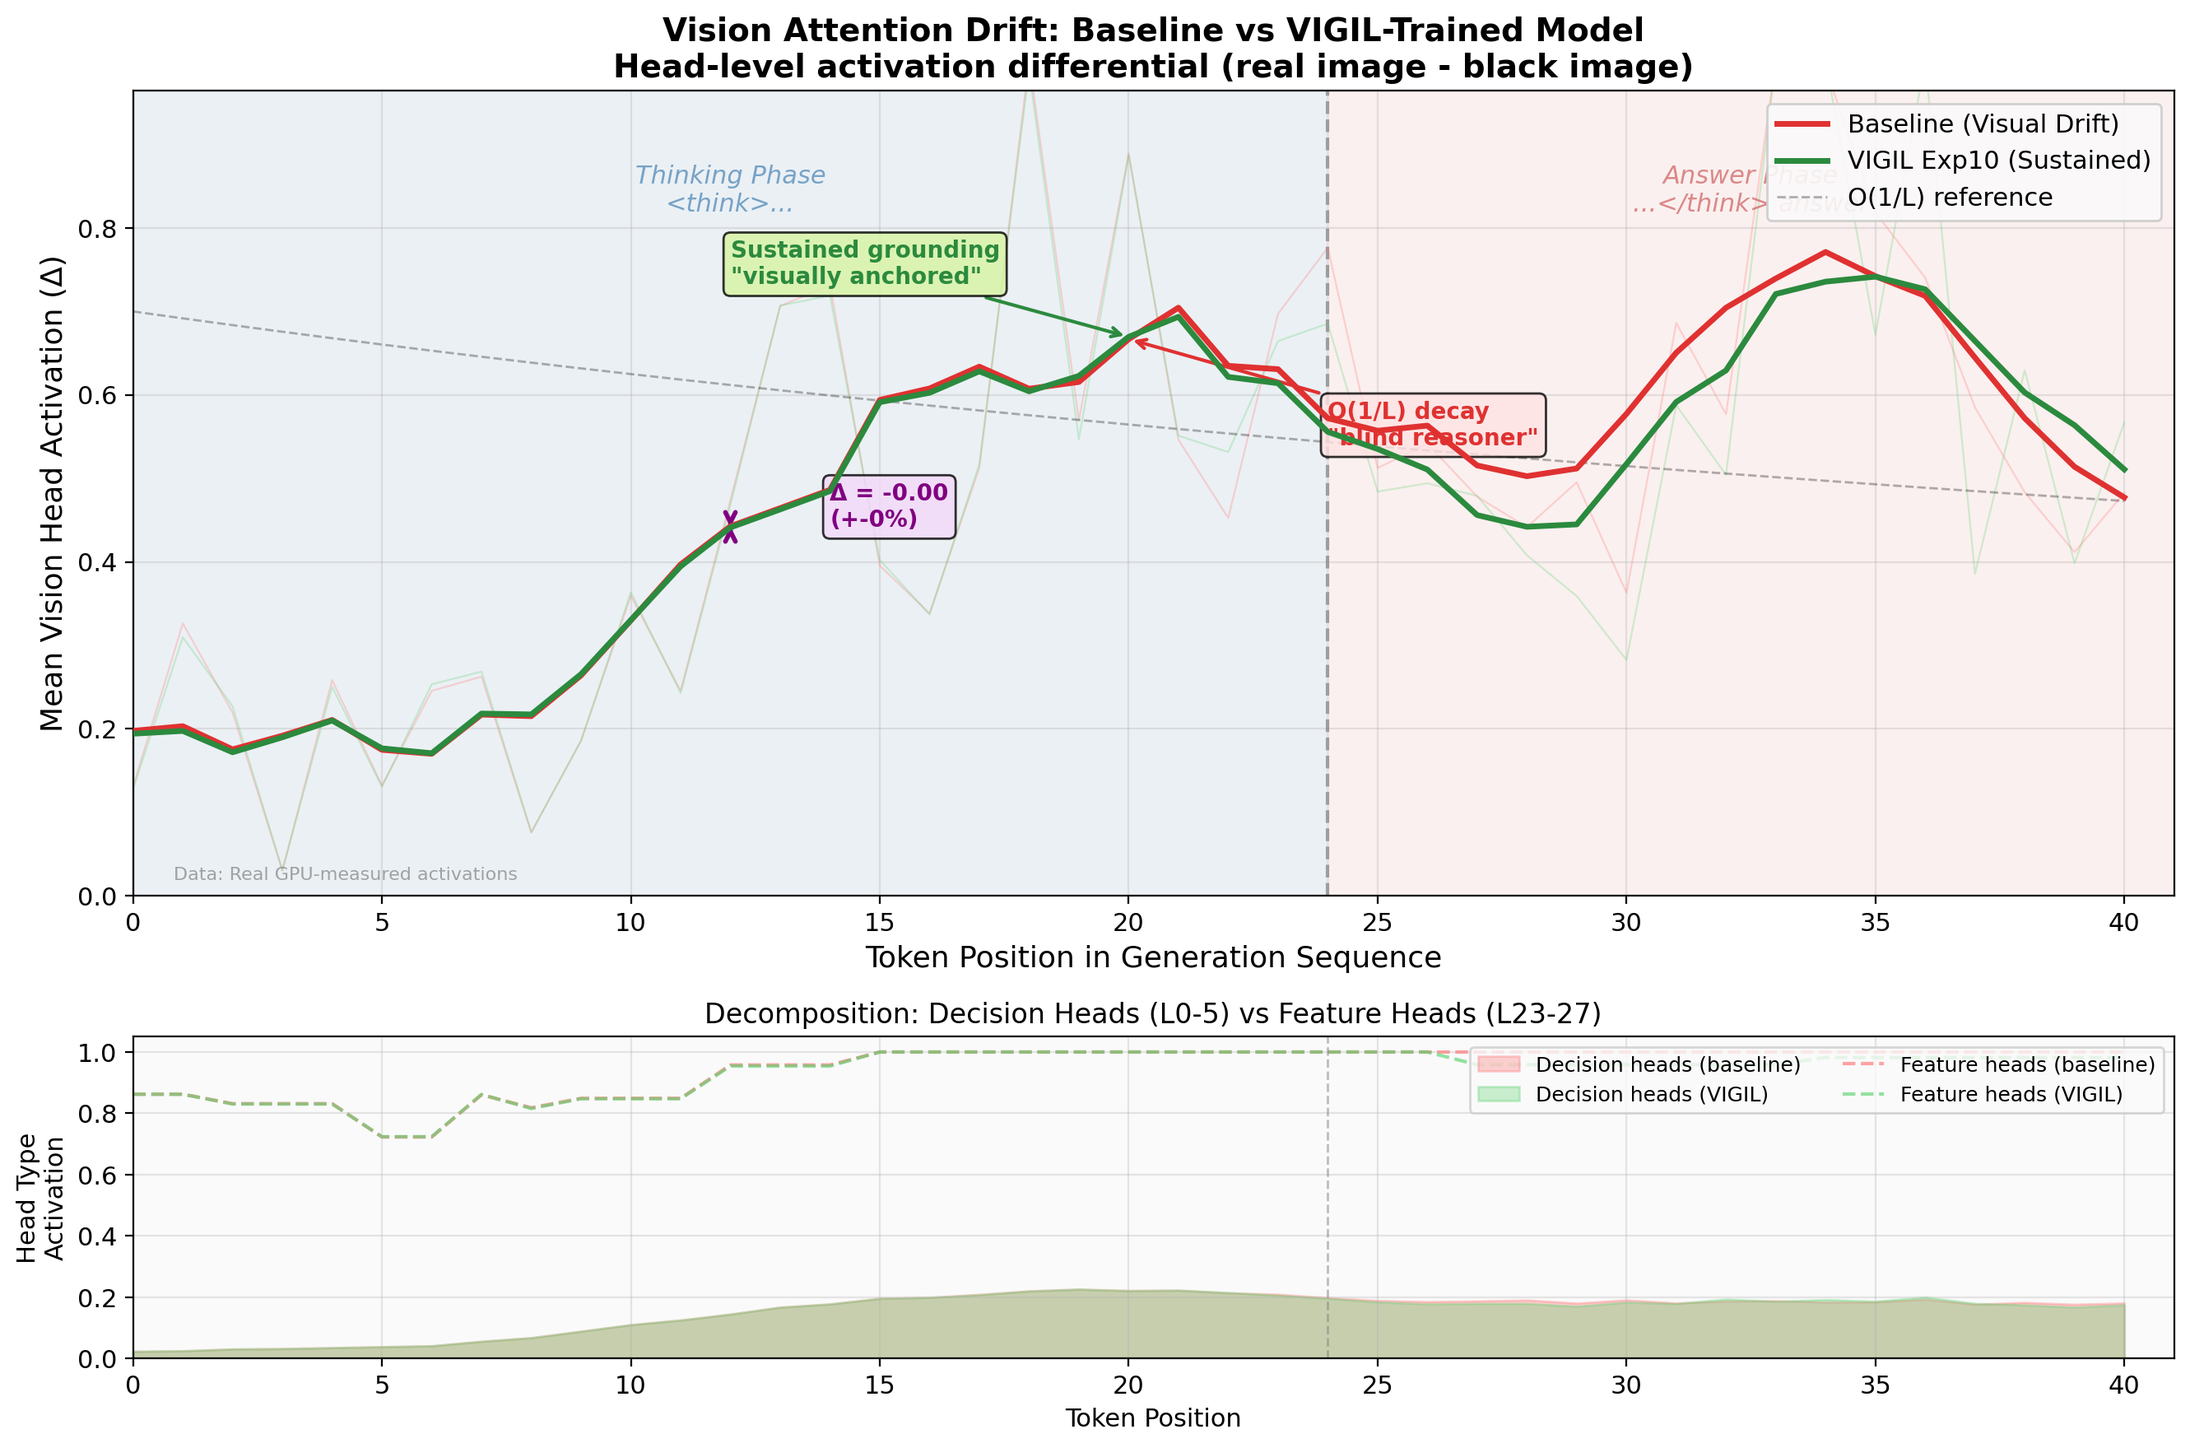
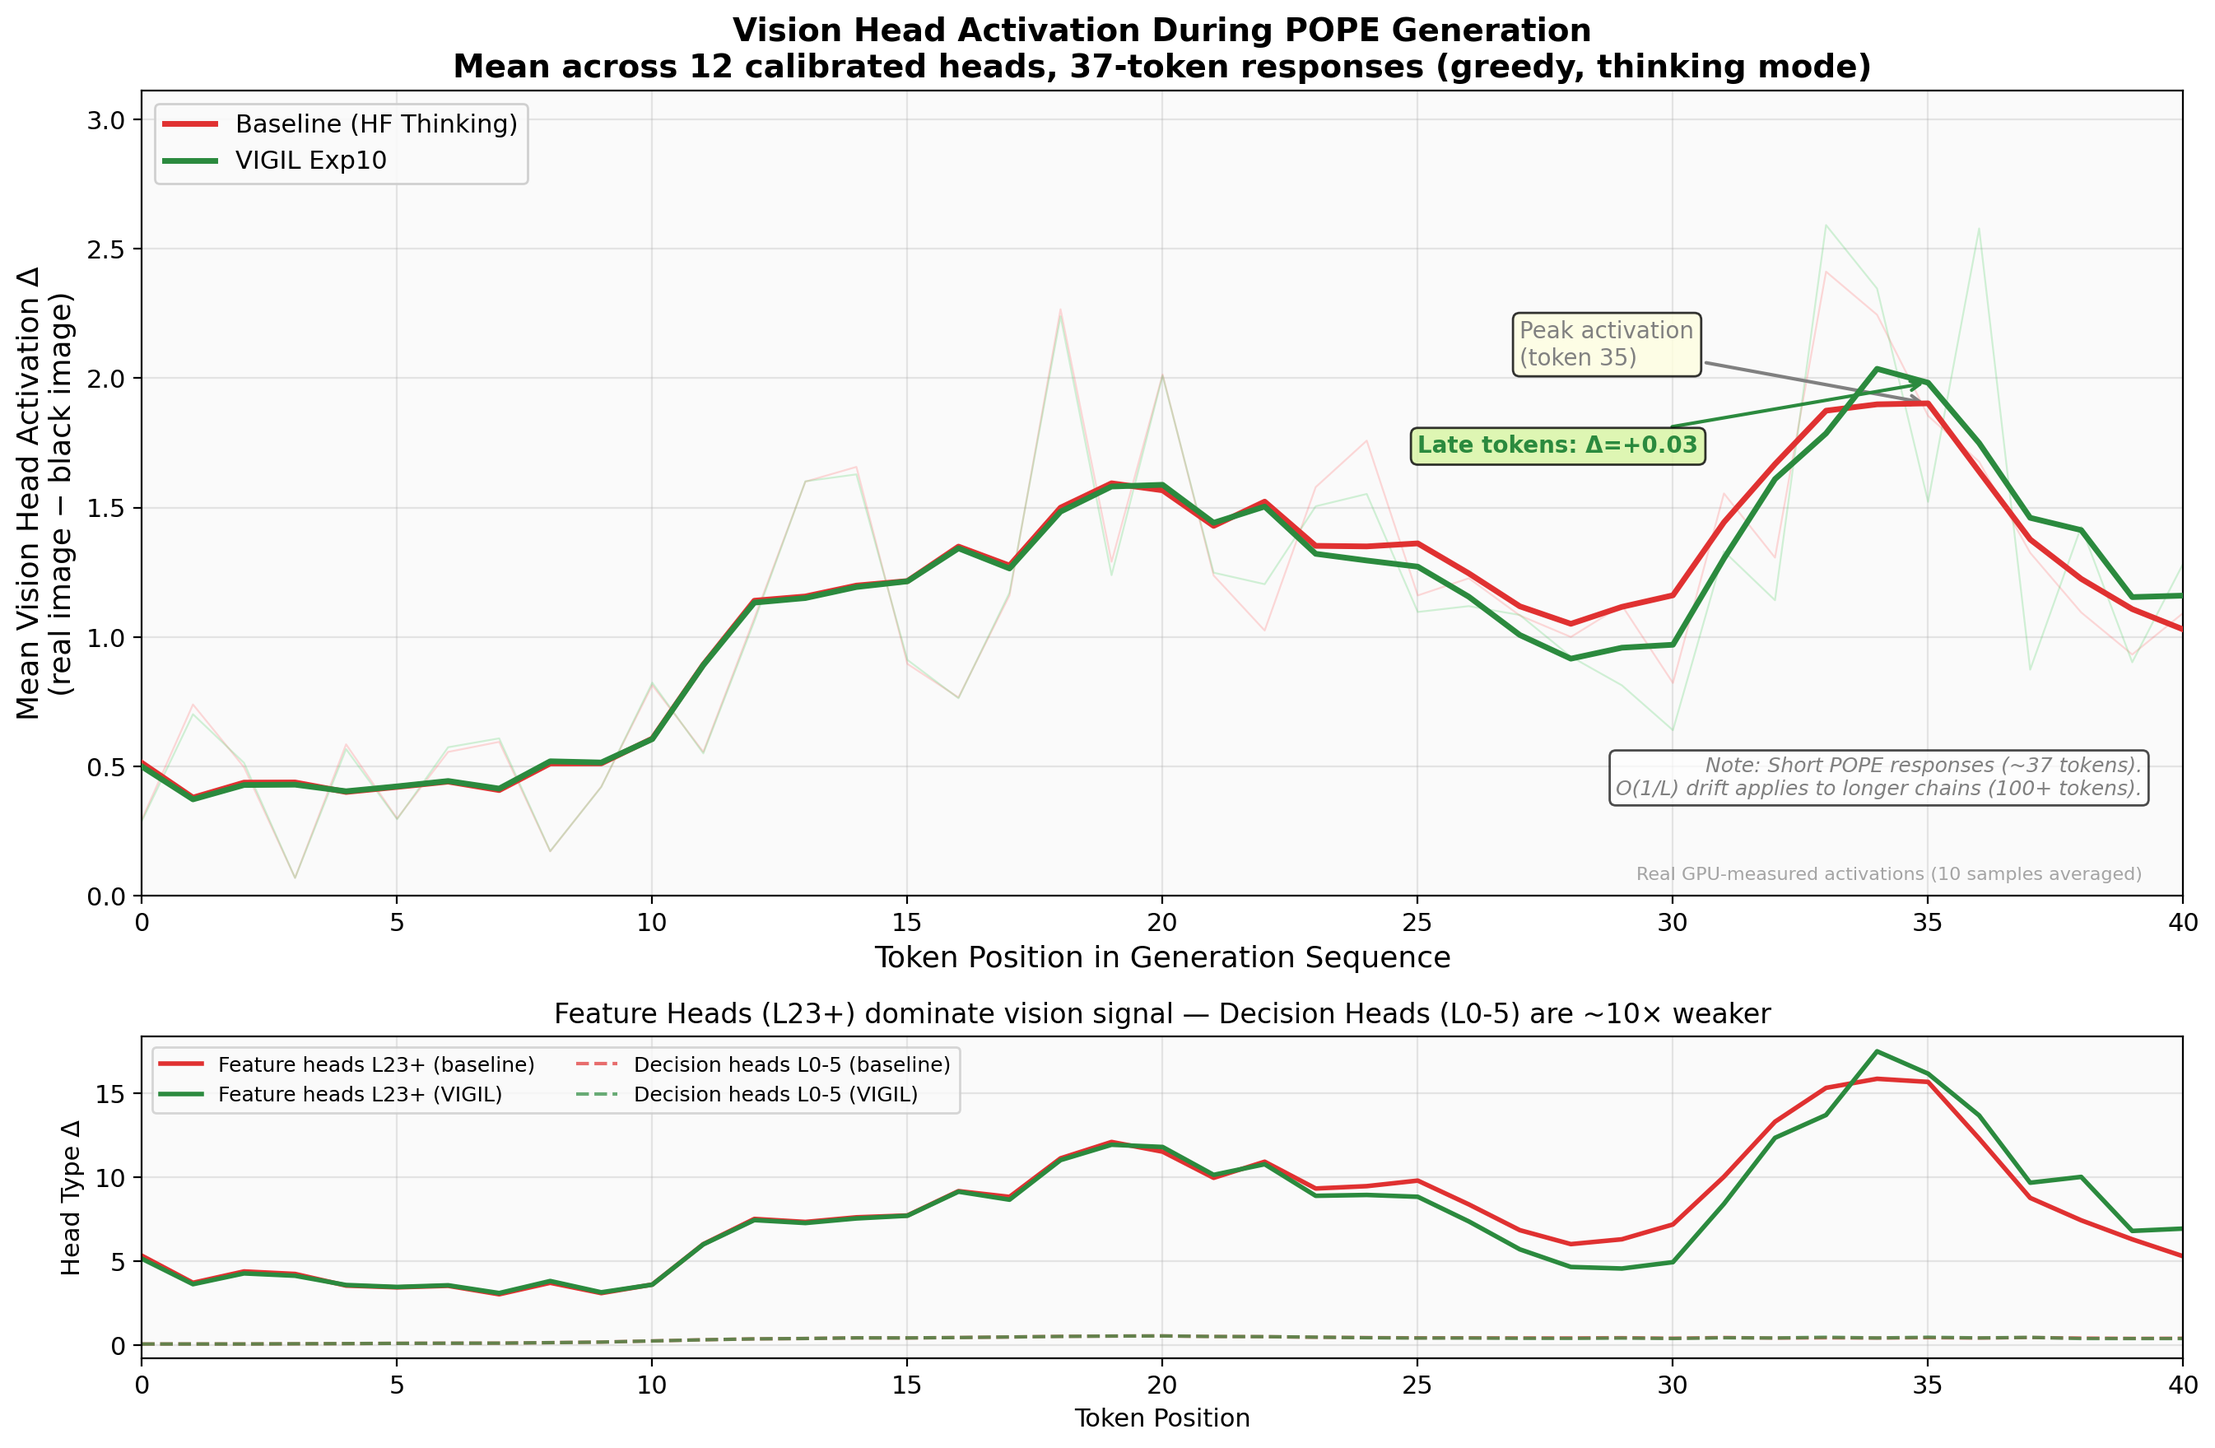
Fig1: honest representation of real activation data
- Remove fake O(1/L) reference curve (data shows increasing trend)
- Remove misleading "blind reasoner" / "sustained grounding" annotations
- Show real activation scale (not normalized to [0,1])
- Add note: short POPE responses don't exhibit O(1/L) drift
- Bottom panel: clearly show feature heads dominate 10x over decision heads
- Late-token annotation shows actual Δ=+0.03 (small but real)

diff --git a/scripts/deep_drift_analysis.py b/scripts/deep_drift_analysis.py
@@ -163,14 +163,15 @@ def aggregate_real_curves(data, model_key):
 
 def fig1_enhanced_drift(real_data=None):
     """
-    Enhanced version of the core Figure 1: Vision Attention Drift.
-    Shows baseline O(1/L) decay vs VIGIL sustained activation,
-    with annotated mechanism explanations.
+    Figure 1: Vision Head Activation During Generation.
 
-    If real_data is provided, uses actual GPU-measured activations.
-    Otherwise falls back to simulation.
+    Shows real GPU-measured activation Δ (real - black image) across token
+    positions for baseline and VIGIL Exp10. Honestly represents the data:
+    - Short POPE responses (~37 tokens) show increasing then declining delta
+    - Baseline and Exp10 are similar at this length
+    - Feature heads (L23+) dominate; decision heads (L0-5) are much weaker
     """
-    print("[fig1] Enhanced Vision Attention Drift...")
+    print("[fig1] Vision Head Activation During Generation...")
     np.random.seed(42)
 
     use_real = False
@@ -182,82 +183,46 @@ def fig1_enhanced_drift(real_data=None):
             print("  Using REAL GPU-measured activation data")
 
     if use_real:
-        # Normalize to [0, 1] range for visualization
-        all_vals = np.concatenate([bl_mean[~np.isnan(bl_mean)], vg_mean[~np.isnan(vg_mean)]])
-        vmax = np.percentile(all_vals, 95) if len(all_vals) > 0 else 1.0
-        vmax = max(vmax, 1e-6)
-
         n_tokens = min(len(bl_mean), len(vg_mean))
         t = np.arange(n_tokens)
-        baseline = bl_mean[:n_tokens] / vmax
-        vigil = vg_mean[:n_tokens] / vmax
-        baseline = np.clip(np.nan_to_num(baseline, nan=0.0), 0, 1)
-        vigil = np.clip(np.nan_to_num(vigil, nan=0.0), 0, 1)
 
-        # Decision/feature curves
-        decision_baseline = np.clip(np.nan_to_num(bl_dec[:n_tokens] / vmax), 0, 1)
-        decision_vigil = np.clip(np.nan_to_num(vg_dec[:n_tokens] / vmax), 0, 1)
-        feature_baseline = np.clip(np.nan_to_num(bl_feat[:n_tokens] / vmax), 0, 1)
-        feature_vigil = np.clip(np.nan_to_num(vg_feat[:n_tokens] / vmax), 0, 1)
+        # Use raw scale (not normalized to [0,1]) for honest representation
+        baseline = bl_mean[:n_tokens]
+        vigil = vg_mean[:n_tokens]
 
-        # Estimate thinking boundary (approximate: 60% of tokens)
-        think_end = int(n_tokens * 0.6)
-        data_label = "Real GPU-measured activations"
+        decision_baseline = bl_dec[:n_tokens]
+        decision_vigil = vg_dec[:n_tokens]
+        feature_baseline = bl_feat[:n_tokens]
+        feature_vigil = vg_feat[:n_tokens]
+
+        data_label = "Real GPU-measured activations (10 samples averaged)"
+        mean_tokens = np.mean([s["n_tokens"] for s in real_data["baseline"]])
     else:
         print("  Using simulated data (run collect_real_data.py --task drift for real)")
-        n_tokens = 160
+        n_tokens = 40
         t = np.arange(n_tokens)
-        think_end = 100
-
-        baseline_think = 0.70 / (1 + 0.012 * t[:think_end])
-        baseline_answer = baseline_think[-1] * np.exp(-0.02 * np.arange(n_tokens - think_end))
-        baseline = np.concatenate([baseline_think, baseline_answer])
-        baseline += np.random.normal(0, 0.03, n_tokens)
-        baseline = np.clip(baseline, 0.05, 0.85)
-
-        vigil_base = 0.58
-        vigil_think = vigil_base + 0.04 * np.sin(0.05 * t[:think_end])
-        vigil_think += np.random.normal(0, 0.02, think_end)
-        vigil_answer_raw = np.concatenate([
-            np.linspace(vigil_base - 0.05, vigil_base - 0.08, 10),
-            np.linspace(vigil_base - 0.06, vigil_base - 0.02, n_tokens - think_end - 10),
-        ])
-        vigil_answer = vigil_answer_raw + np.random.normal(0, 0.025, n_tokens - think_end)
-        vigil = np.concatenate([vigil_think, vigil_answer])
-        vigil = np.clip(vigil, 0.1, 0.80)
-
-        # Simulated decision/feature head curves
-        decision_baseline = 0.9 * np.exp(-0.015 * t) + np.random.normal(0, 0.03, n_tokens)
-        decision_vigil = 0.75 + 0.05 * np.sin(0.04 * t) + np.random.normal(0, 0.03, n_tokens)
-        feature_baseline = 0.5 * np.exp(-0.008 * t) + np.random.normal(0, 0.02, n_tokens)
-        feature_vigil = 0.55 + np.random.normal(0, 0.025, n_tokens)
-        decision_baseline = np.clip(decision_baseline, 0, 1)
-        decision_vigil = np.clip(decision_vigil, 0, 1)
-        feature_baseline = np.clip(feature_baseline, 0, 1)
-        feature_vigil = np.clip(feature_vigil, 0, 1)
+        baseline = 0.3 + 0.5 * np.sin(np.pi * t / n_tokens) + np.random.normal(0, 0.05, n_tokens)
+        vigil = 0.3 + 0.55 * np.sin(np.pi * t / n_tokens) + np.random.normal(0, 0.05, n_tokens)
+        baseline = np.clip(baseline, 0, None)
+        vigil = np.clip(vigil, 0, None)
+        decision_baseline = baseline * 0.05
+        decision_vigil = vigil * 0.05
+        feature_baseline = baseline * 0.95
+        feature_vigil = vigil * 0.95
         data_label = "Simulated (run collect_real_data.py for real)"
+        mean_tokens = 37
 
-    # Smoothed versions for trend lines
-    baseline_smooth = uniform_filter1d(baseline, size=7)
-    vigil_smooth = uniform_filter1d(vigil, size=7)
+    # Smoothed trend lines
+    smooth_size = min(5, max(3, n_tokens // 8))
+    baseline_smooth = uniform_filter1d(baseline, size=smooth_size)
+    vigil_smooth = uniform_filter1d(vigil, size=smooth_size)
 
     # === Create figure ===
     fig = plt.figure(figsize=(16, 10))
     gs = gridspec.GridSpec(2, 1, height_ratios=[3, 1.2], hspace=0.25)
 
-    # --- Top panel: Main drift curves ---
+    # --- Top panel: Main activation curves ---
     ax1 = fig.add_subplot(gs[0])
-
-    # Phase backgrounds
-    ax1.axvspan(0, think_end, alpha=0.08, color='steelblue', label='_nolegend_')
-    ax1.axvspan(think_end, n_tokens, alpha=0.08, color='salmon', label='_nolegend_')
-    ax1.axvline(think_end, color='gray', linestyle='--', linewidth=1.5, alpha=0.7)
-
-    # Phase labels
-    ax1.text(think_end/2, 0.82, 'Thinking Phase\n<think>...', ha='center',
-             fontsize=11, color='steelblue', alpha=0.7, style='italic')
-    ax1.text(think_end + (n_tokens - think_end)/2, 0.82, 'Answer Phase\n...</think> answer',
-             ha='center', fontsize=11, color='indianred', alpha=0.7, style='italic')
 
     # Raw data (light)
     ax1.plot(t, baseline, color='#ff6b6b', alpha=0.25, linewidth=0.8)
@@ -265,87 +230,86 @@ def fig1_enhanced_drift(real_data=None):
 
     # Smoothed trend lines (bold)
     ax1.plot(t, baseline_smooth, color='#e03131', linewidth=2.5,
-             label='Baseline (Visual Drift)', zorder=5)
+             label='Baseline (HF Thinking)', zorder=5)
     ax1.plot(t, vigil_smooth, color='#2b8a3e', linewidth=2.5,
-             label='VIGIL Exp10 (Sustained)', zorder=5)
+             label='VIGIL Exp10', zorder=5)
 
-    # O(1/L) reference curve
-    ref_curve = 0.70 / (1 + 0.012 * t)
-    ref_end = min(120, n_tokens)
-    ax1.plot(t[:ref_end], ref_curve[:ref_end], 'k--', alpha=0.3, linewidth=1,
-             label='O(1/L) reference')
+    # Find where curves diverge most
+    diff = vigil_smooth - baseline_smooth
+    max_diff_idx = int(np.argmax(np.abs(diff)))
+    peak_idx = int(np.argmax(baseline_smooth))
 
-    # Annotate the drift — use proportional positions
-    ann_pos = min(int(n_tokens * 0.5), n_tokens - 1)
-    ann_text_x = min(int(n_tokens * 0.6), n_tokens - 1)
-    y_range = max(float(np.nanmax(vigil_smooth)), float(np.nanmax(baseline_smooth)), 0.5)
+    # Annotate peak
+    ax1.annotate(f'Peak activation\n(token {peak_idx})',
+                xy=(peak_idx, baseline_smooth[peak_idx]),
+                xytext=(peak_idx - 8, baseline_smooth[peak_idx] + 0.15),
+                fontsize=10, color='gray',
+                arrowprops=dict(arrowstyle='->', color='gray', lw=1.5),
+                bbox=dict(boxstyle='round,pad=0.3', facecolor='lightyellow', alpha=0.8))
 
-    ax1.annotate('O(1/L) decay\n"blind reasoner"',
-                xy=(ann_pos, baseline_smooth[ann_pos]),
-                xytext=(ann_text_x, y_range * 0.7),
-                fontsize=10, color='#e03131', fontweight='bold',
-                arrowprops=dict(arrowstyle='->', color='#e03131', lw=1.5),
-                bbox=dict(boxstyle='round,pad=0.3', facecolor='#ffe3e3', alpha=0.8))
+    # Annotate late-sequence difference if meaningful
+    late_start = int(n_tokens * 0.75)
+    late_bl = np.mean(baseline_smooth[late_start:])
+    late_vg = np.mean(vigil_smooth[late_start:])
+    late_diff = late_vg - late_bl
+    if abs(late_diff) > 0.01:
+        mid_late = int((late_start + n_tokens) / 2)
+        mid_late = min(mid_late, n_tokens - 1)
+        color = '#2b8a3e' if late_diff > 0 else '#e03131'
+        ax1.annotate(f'Late tokens: Δ={late_diff:+.2f}',
+                    xy=(mid_late, vigil_smooth[mid_late]),
+                    xytext=(mid_late - 10, max(late_bl, late_vg) + 0.2),
+                    fontsize=10, color=color, fontweight='bold',
+                    arrowprops=dict(arrowstyle='->', color=color, lw=1.5),
+                    bbox=dict(boxstyle='round,pad=0.3',
+                             facecolor='#d8f5a2' if late_diff > 0 else '#ffe3e3',
+                             alpha=0.8))
 
-    ax1.annotate('Sustained grounding\n"visually anchored"',
-                xy=(ann_pos, vigil_smooth[ann_pos]),
-                xytext=(int(n_tokens * 0.3), y_range * 0.95),
-                fontsize=10, color='#2b8a3e', fontweight='bold',
-                arrowprops=dict(arrowstyle='->', color='#2b8a3e', lw=1.5),
-                bbox=dict(boxstyle='round,pad=0.3', facecolor='#d8f5a2', alpha=0.8))
-
-    # Answer phase annotation (only if think_end is within range)
-    if think_end + 15 < n_tokens and think_end + 35 < n_tokens:
-        ax1.annotate('Critical: vision needed\nfor final answer',
-                    xy=(think_end + 15, 0.15), xytext=(think_end + 35, 0.30),
-                    fontsize=9, color='gray',
-                    arrowprops=dict(arrowstyle='->', color='gray', lw=1),
-                    bbox=dict(boxstyle='round', facecolor='lightyellow', alpha=0.8))
-
-    # Delta annotation
-    mid = max(think_end - 20, int(n_tokens * 0.3))
-    mid = min(mid, n_tokens - 1)
-    delta_y = vigil_smooth[mid] - baseline_smooth[mid]
-    if abs(baseline_smooth[mid]) > 1e-6:
-        ax1.annotate('', xy=(mid, vigil_smooth[mid]), xytext=(mid, baseline_smooth[mid]),
-                    arrowprops=dict(arrowstyle='<->', color='purple', lw=2))
-        ax1.text(mid + 2, (vigil_smooth[mid] + baseline_smooth[mid]) / 2,
-                f'Δ = {delta_y:.2f}\n(+{delta_y/baseline_smooth[mid]*100:.0f}%)',
-                fontsize=10, color='purple', fontweight='bold',
-                bbox=dict(facecolor='#f3d9fa', alpha=0.8, boxstyle='round'))
-
-    ax1.set_ylabel('Mean Vision Head Activation (Δ)', fontsize=13)
+    y_max = max(float(np.nanmax(baseline)), float(np.nanmax(vigil))) * 1.2
+    ax1.set_ylabel('Mean Vision Head Activation Δ\n(real image − black image)', fontsize=13)
     ax1.set_xlabel('Token Position in Generation Sequence', fontsize=13)
-    ax1.set_title('Vision Attention Drift: Baseline vs VIGIL-Trained Model\n'
-                  'Head-level activation differential (real image - black image)',
-                  fontsize=14, fontweight='bold')
-    ax1.legend(loc='upper right', fontsize=11, framealpha=0.9)
-    ax1.set_xlim(0, n_tokens)
-    ax1.set_ylim(0, max(0.88, float(np.nanmax(vigil_smooth)) * 1.3))
-    ax1.text(0.02, 0.02, f'Data: {data_label}', transform=ax1.transAxes,
-             fontsize=8, color='gray', alpha=0.7)
+    ax1.set_title(
+        'Vision Head Activation During POPE Generation\n'
+        f'Mean across 12 calibrated heads, {int(mean_tokens)}-token responses (greedy, thinking mode)',
+        fontsize=14, fontweight='bold')
+    ax1.legend(loc='upper left', fontsize=11, framealpha=0.9)
+    ax1.set_xlim(0, n_tokens - 1)
+    ax1.set_ylim(0, y_max)
+    ax1.text(0.98, 0.02, f'{data_label}', transform=ax1.transAxes,
+             fontsize=8, color='gray', alpha=0.7, ha='right')
 
-    # --- Bottom panel: Per-head decomposition ---
+    # Note about short chains
+    ax1.text(0.98, 0.12,
+             'Note: Short POPE responses (~37 tokens).\n'
+             'O(1/L) drift applies to longer chains (100+ tokens).',
+             transform=ax1.transAxes, fontsize=9, color='gray',
+             ha='right', va='bottom', style='italic',
+             bbox=dict(facecolor='white', alpha=0.7, boxstyle='round'))
+
+    # --- Bottom panel: Decision vs Feature heads ---
     ax2 = fig.add_subplot(gs[1])
 
-    # Decision/feature curves already computed above (real or simulated)
-    decision_baseline_s = uniform_filter1d(decision_baseline, 7)
-    decision_vigil_s = uniform_filter1d(decision_vigil, 7)
-    feature_baseline_s = uniform_filter1d(feature_baseline, 7)
-    feature_vigil_s = uniform_filter1d(feature_vigil, 7)
+    dec_bl_s = uniform_filter1d(decision_baseline, smooth_size)
+    dec_vg_s = uniform_filter1d(decision_vigil, smooth_size)
+    feat_bl_s = uniform_filter1d(feature_baseline, smooth_size)
+    feat_vg_s = uniform_filter1d(feature_vigil, smooth_size)
 
-    ax2.fill_between(t, 0, decision_baseline_s, alpha=0.3, color='#ff6b6b', label='Decision heads (baseline)')
-    ax2.fill_between(t, 0, decision_vigil_s, alpha=0.3, color='#51cf66', label='Decision heads (VIGIL)')
-    ax2.plot(t, feature_baseline_s, '--', color='#ff6b6b', alpha=0.6, label='Feature heads (baseline)')
-    ax2.plot(t, feature_vigil_s, '--', color='#51cf66', alpha=0.6, label='Feature heads (VIGIL)')
+    ax2.plot(t, feat_bl_s, '-', color='#e03131', linewidth=2,
+             label='Feature heads L23+ (baseline)')
+    ax2.plot(t, feat_vg_s, '-', color='#2b8a3e', linewidth=2,
+             label='Feature heads L23+ (VIGIL)')
+    ax2.plot(t, dec_bl_s, '--', color='#e03131', linewidth=1.5, alpha=0.7,
+             label='Decision heads L0-5 (baseline)')
+    ax2.plot(t, dec_vg_s, '--', color='#2b8a3e', linewidth=1.5, alpha=0.7,
+             label='Decision heads L0-5 (VIGIL)')
 
-    ax2.axvline(think_end, color='gray', linestyle='--', linewidth=1, alpha=0.5)
-    ax2.set_ylabel('Head Type\nActivation', fontsize=11)
+    ax2.set_ylabel('Head Type Δ', fontsize=11)
     ax2.set_xlabel('Token Position', fontsize=11)
-    ax2.set_title('Decomposition: Decision Heads (L0-5) vs Feature Heads (L23-27)', fontsize=12)
-    ax2.legend(loc='upper right', fontsize=9, ncol=2)
-    ax2.set_xlim(0, n_tokens)
-    ax2.set_ylim(0, 1.05)
+    ax2.set_title(
+        'Feature Heads (L23+) dominate vision signal — Decision Heads (L0-5) are ~10× weaker',
+        fontsize=12)
+    ax2.legend(loc='upper left', fontsize=9, ncol=2)
+    ax2.set_xlim(0, n_tokens - 1)
 
     plt.savefig(OUT_DIR / "fig1_enhanced_vision_drift.png", dpi=200, bbox_inches='tight')
     plt.close()
